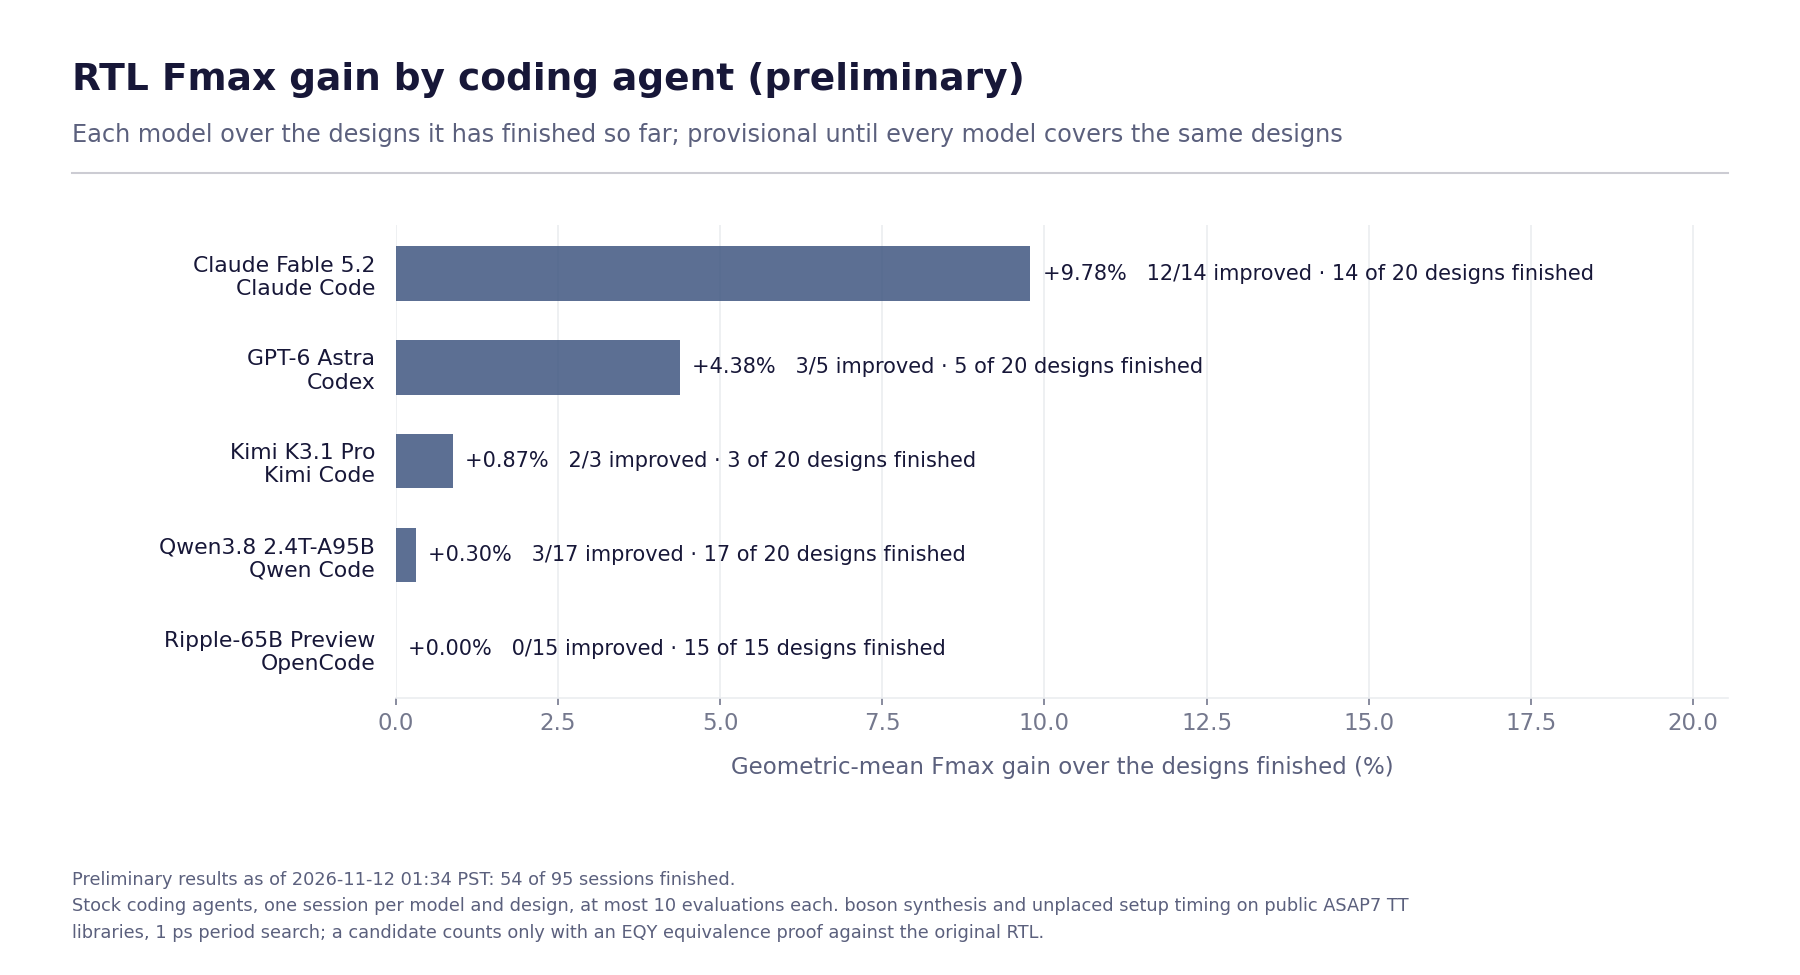
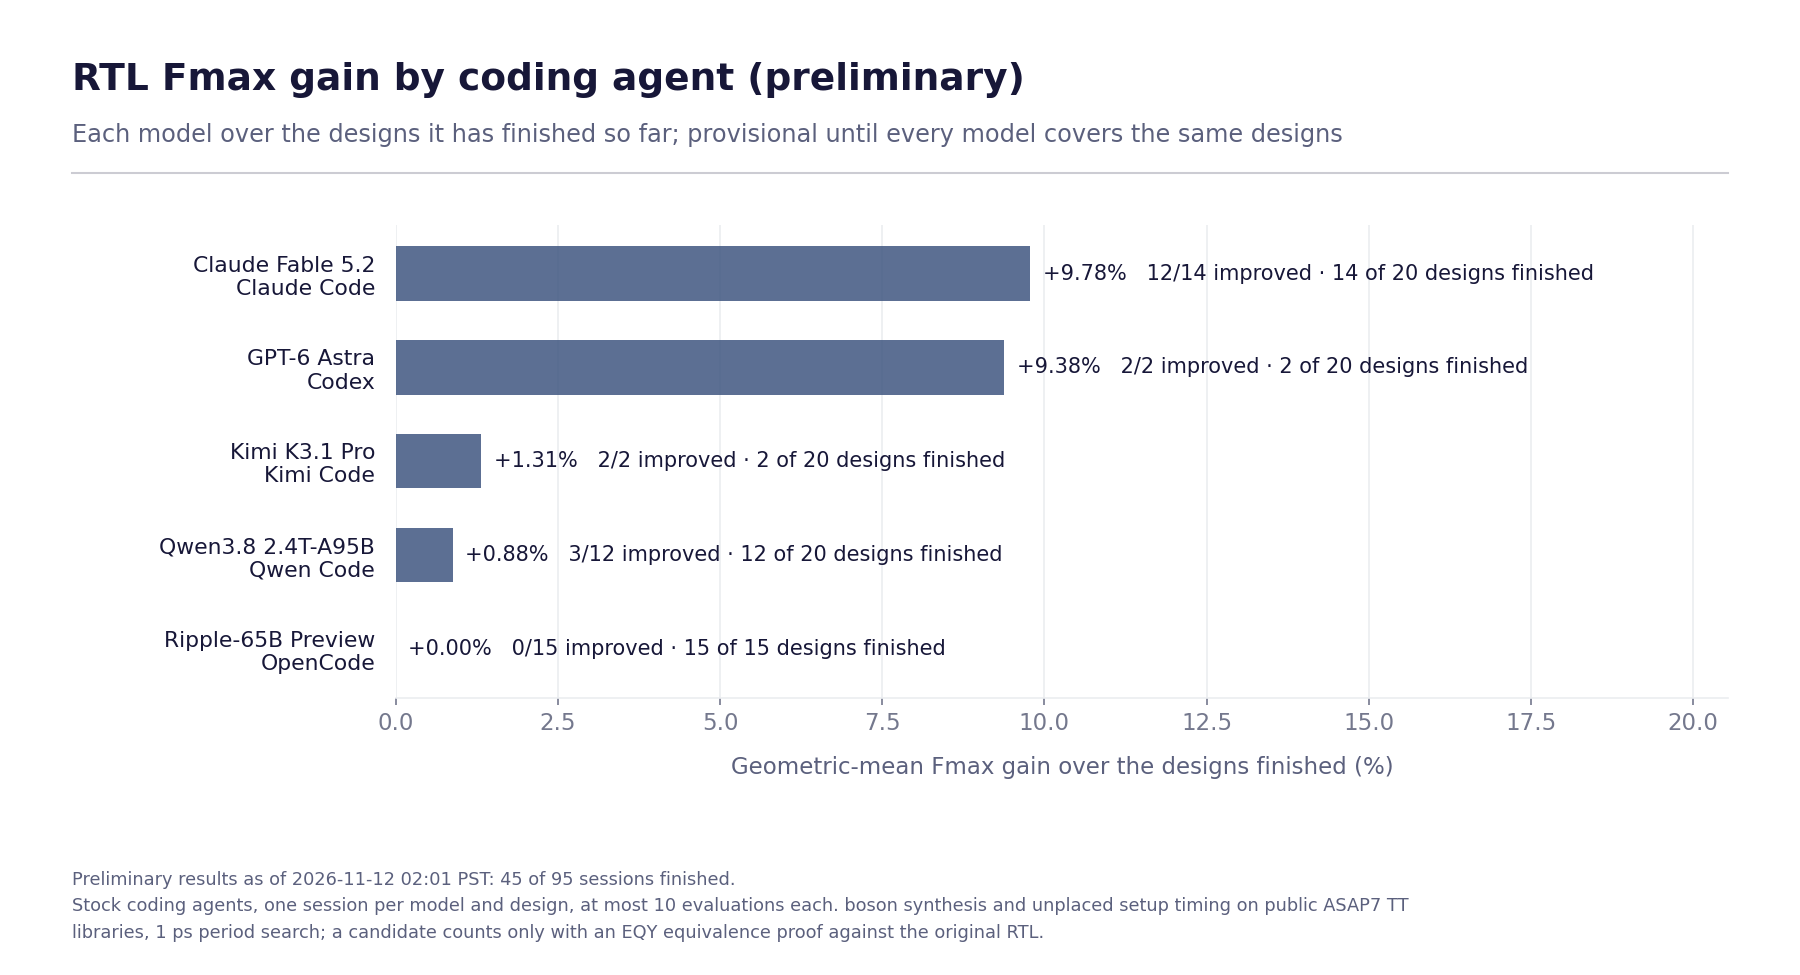
Refresh preliminary results: 45 of 95 sessions finished
Data as of 2026-11-12 02:01 PST.

diff --git a/README.md b/README.md
@@ -21,16 +21,16 @@ accepted only when it is proven equivalent and faster than the session's best so
 ## Results
 
 <!-- results:start -->
-**Status:** 54 of 95 sessions finished (5 models, 20 designs), as of 2026-11-12 01:34 PST.
+**Status:** 45 of 95 sessions finished (5 models, 20 designs), as of 2026-11-12 02:01 PST. 10 interrupted attempts are excluded from these results while awaiting a valid replacement.
 
 ### Coverage
 
 | Model | Developer | Harness | Access | Sessions finished |
 |---|---|---|---|---:|
 | Claude Fable 5.2 | Anthropic | Claude Code 2.1.322 | Official CLI signed in to a subscription | 14 / 20 |
-| GPT-6 Astra | OpenAI | Codex 0.154.0 | Official CLI signed in to a subscription | 5 / 20 |
-| Kimi K3.1 Pro | Moonshot AI | Kimi Code 2.5.2 | OpenRouter, pinned to Moonshot AI's own endpoint (MXFP4), fallbacks disabled | 3 / 20 |
-| Qwen3.8 2.4T-A95B | Qwen (Alibaba) | Qwen Code 0.27.1 | OpenRouter, one pinned provider (SiliconFlow, FP8) | 17 / 20 |
+| GPT-6 Astra | OpenAI | Codex 0.154.0 | Official CLI signed in to a subscription | 2 / 20 |
+| Kimi K3.1 Pro | Moonshot AI | Kimi Code 2.5.2 | OpenRouter, pinned to Moonshot AI's own endpoint (MXFP4), fallbacks disabled | 2 / 20 |
+| Qwen3.8 2.4T-A95B | Qwen (Alibaba) | Qwen Code 0.27.1 | OpenRouter, one pinned provider (SiliconFlow, FP8) | 12 / 20 |
 | Ripple-65B Preview | Ricursive AI | OpenCode 1.19.5 | Self-hosted (SGLang 0.5.19, BF16) for its first 15 designs; OpenRouter pinned to PrimeIntellect (BF16) for later sessions | 15 / 15 |
 
 ### Results by model
@@ -38,9 +38,9 @@ accepted only when it is proven equivalent and faster than the session's best so
 | Model | Harness | Designs finished | Fmax gain (geomean) | Designs improved | Mean evaluations | Candidates not proven |
 |---|---|---:|---:|---:|---:|---:|
 | Claude Fable 5.2 | Claude Code | 14 / 20 | +9.78% | 12 / 14 | 4.8 | 37% (25 / 67) |
-| GPT-6 Astra | Codex | 5 / 20 | +4.38% | 3 / 5 | 4.0 | 50% (10 / 20) |
-| Kimi K3.1 Pro | Kimi Code | 3 / 20 | +0.87% | 2 / 3 | 6.0 | 56% (10 / 18) |
-| Qwen3.8 2.4T-A95B | Qwen Code | 17 / 20 | +0.30% | 3 / 17 | 1.0 | 82% (14 / 17) |
+| GPT-6 Astra | Codex | 2 / 20 | +9.38% | 2 / 2 | 8.5 | 47% (8 / 17) |
+| Kimi K3.1 Pro | Kimi Code | 2 / 20 | +1.31% | 2 / 2 | 7.0 | 57% (8 / 14) |
+| Qwen3.8 2.4T-A95B | Qwen Code | 12 / 20 | +0.88% | 3 / 12 | 1.2 | 80% (12 / 15) |
 | Ripple-65B Preview | OpenCode | 15 / 15 | +0.00% | 0 / 15 | 0.2 | 100% (3 / 3) |
 
 Fmax gain is the geometric mean of each finished session's Fmax ratio (baseline period / best accepted period) over the designs that model has finished. Models have finished different designs, so this order is provisional, not a like-for-like ranking, until every model covers the same designs. "Candidates not proven" is the share of evaluations whose equivalence proof did not pass.
@@ -58,27 +58,27 @@ Fmax gain is the geometric mean of each finished session's Fmax ratio (baseline 
 | `ibex.minimal` | 0.716 | 2 | 0.716 | +0.00% | no improvement yet |
 | `nvdla.top` | 0.789 | 2 | 0.789 | +0.00% | no improvement yet |
 | `opope.default` | 0.857 | 2 | 0.857 | +0.00% | no improvement yet |
-| `serial_link.default` | 0.305 | 1 | 0.305 | +0.00% | no improvement yet |
+| `serial_link.default` | 0.305 | 2 | 0.278 | +9.71% | Qwen3.8 2.4T-A95B |
 | `spi_host.default` | 0.475 | 1 | 0.475 | +0.00% | no improvement yet |
 | `snitch_cluster.minimal` | 1.288 | 3 | 1.201 | +7.24% | Claude Fable 5.2 |
 | `ita.default` | 0.903 | 3 | 0.900 | +0.33% | Claude Fable 5.2 |
-| `mempool.minpool` | 2.869 | 3 | 2.374 | +20.85% | Claude Fable 5.2 |
-| `ara.default` | 1.064 | 3 | 0.942 | +12.95% | Claude Fable 5.2 |
-| `pulp_c910.default` | 1.005 | 4 | 0.930 | +8.06% | GPT-6 Astra |
-| `spatz.default` | 2.266 | 4 | 1.868 | +21.31% | Claude Fable 5.2 |
-| `snitch_cluster.default` | 2.128 | 4 | 1.751 | +21.53% | Claude Fable 5.2 |
-| `redmule.default` | 1.636 | 4 | 1.542 | +6.10% | Claude Fable 5.2 |
+| `mempool.minpool` | 2.869 | 2 | 2.374 | +20.85% | Claude Fable 5.2 |
+| `ara.default` | 1.064 | 2 | 0.942 | +12.95% | Claude Fable 5.2 |
+| `pulp_c910.default` | 1.005 | 3 | 0.930 | +8.06% | GPT-6 Astra |
+| `spatz.default` | 2.266 | 2 | 1.868 | +21.31% | Claude Fable 5.2 |
+| `snitch_cluster.default` | 2.128 | 2 | 1.751 | +21.53% | Claude Fable 5.2 |
+| `redmule.default` | 1.636 | 1 | 1.542 | +6.10% | Claude Fable 5.2 |
 | `snitch_cluster.default_latch` | 2.169 | 0 | — | — | — |
 
 ### Early observations
 
 Counts over every finished session of the models above. They describe what happened; with one session per model and design they do not establish causes or rankings.
 
-- 125 candidates evaluated: 52 accepted, 10 proven equivalent but not faster than the session's best, 62 not proven (41 with a partition EQY could not prove, 10 at the proof deadline, 11 over the proof memory budget), 1 failed to compile or measure.
-- Of 54 finished sessions, 21 ended with the agent finishing on its own, 22 ran to the time budget and 11 ended with an agent error.
-- Sessions used 2.3 of the 10 allowed evaluations on average; 1 used all 10.
+- 116 candidates evaluated: 51 accepted, 9 proven equivalent but not faster than the session's best, 56 not proven (36 with a partition EQY could not prove, 9 at the proof deadline, 11 over the proof memory budget), 0 failed to compile or measure.
+- Of 45 finished sessions, 22 ended with the agent finishing on its own, 22 ran to the time budget and 1 ended with an agent error.
+- Sessions used 2.6 of the 10 allowed evaluations on average; 1 used all 10.
 - Largest single gain so far: `cvfpu.fp32_fma` by Claude Fable 5.2, 1.401 ns to 1.070 ns (+30.93% Fmax).
-- No finished session has improved `ibex.full`, `ibex.minimal`, `nvdla.top`, `opope.default`, `serial_link.default`, `spi_host.default` yet.
+- No finished session has improved `ibex.full`, `ibex.minimal`, `nvdla.top`, `opope.default`, `spi_host.default` yet.
 <!-- results:end -->
 
 ## Charts
